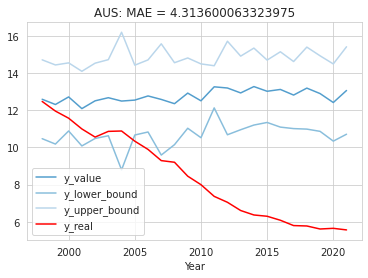
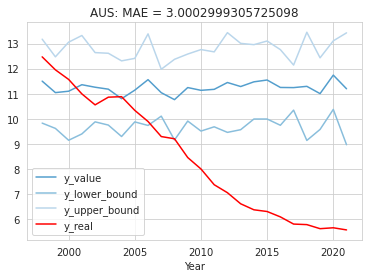
update multivariate helper

diff --git a/Model/BayesLSTM/BayesLSTM_Helpers.py b/Model/BayesLSTM/BayesLSTM_Helpers.py
@@ -92,7 +92,11 @@ def train(wg, args, model, rbscaler):
             outputs = model(X_batch.float())
 
             # Calculate Loss
-            loss = model.compute_loss(outputs.reshape(-1), y_batch)
+            # loss = model.sample_elbo(inputs=X_batch,
+            #                labels=y_batch,
+            #                criterion=torch.nn.L1Loss(),
+            #                sample_nbr=3)
+            loss = model.compute_loss(X_batch, y_batch, outputs)
             # Getting gradients w.r.t. parameters
             loss.backward()
             # Updating parameters
@@ -148,7 +152,7 @@ def validation(args, model, wg):
                   X_batch = X_batch.requires_grad_(False)
                   # Forward pass only to get logits/output
                   outputs = model(X_batch.float())
-                  loss = model.compute_loss(outputs.reshape(-1), y_batch)
+                  loss = model.compute_loss(X_batch, y_batch, outputs)
                   losses.append(loss.data.item()) # store loss
       val_loss = np.mean(losses) # mean loss of one epochh
       return val_loss
